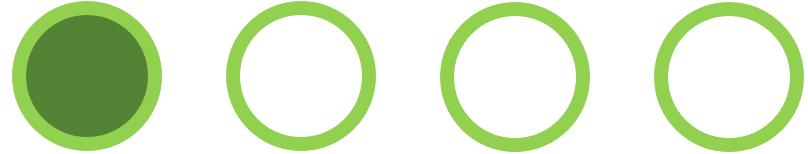
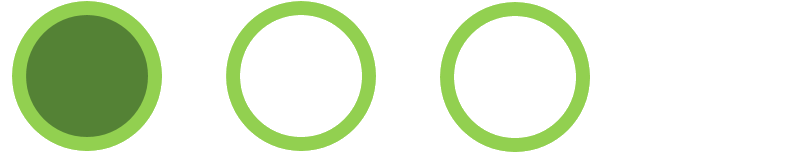
help page typos are modified

Changed region(s): [[0.8045, 0.0, 1.0, 0.987]]

diff --git a/UI/js/helpPage.js b/UI/js/helpPage.js
@@ -5,7 +5,7 @@ updateHelpPage();
 
 // Click handler for 'NEXT' button on the help page.
 $(".help .footer .nextStep").click(function(){
-    if (helpStepTracker < 3) {
+    if (helpStepTracker < 2) {
         ++helpStepTracker;
         updateHelpPage();
     }
@@ -51,9 +51,9 @@ function updateHelpPage() {
             // fill the page with related image and
             $(".help .header .text").text("Updating a Sign");
             $(".help .body img").attr("src", "UI/img/Help_2.png");
-            $(".help .body #description").html("<b style= 'font-size:15px'>To update a sign follow the bellow steps:</b>" +
+            $(".help .body #description").html("<b style= 'font-size:15px'>To update a sign follow the steps below :</b>" +
                 "<br /><br />" +
-                "<span style = 'color: #666666'>1. </span> Select one of the shops you possess, from the combo list.<br /><br/>" +
+                "<span style = 'color: #666666'>1. </span> Select your shop from the list.<br /><br/>" +
                 "<span style = 'color: #666666'>2. </span> Click on the forward and backward button to select the sign you want to update it<br /><br/>" +
                 "<span style = 'color: #666666'>3. </span> Select an image (png, jpg, etc.) from your local machine as a new sign<br /><br/>" +
                 "<span style = 'color: #666666'>4. </span> Click UPDATE button.<br /><br/>" +
@@ -67,8 +67,8 @@ function updateHelpPage() {
             // fill the page with related image and
             $(".help .header .text").text("Giving a Comment");
             $(".help .body img").attr("src", "UI/img/Help_3.png");
-            $(".help .body #description").html("<b style= 'font-size:15px'> To post a comment or give a feedback about the others' signs " +
-                "follow the bellow steps:</b>" +
+            $(".help .body #description").html("<b style= 'font-size:15px'> To post a comment or suggest changes about of any shops' signs " +
+                "follow the steps below:</b>" +
                 "<br /><br />" +
                 "<span style = 'color: #666666'>1. </span> Click on &quot;!&quot; icon<br /><br/>" +
                 "<span style = 'color: #666666'>2. </span> Write the building's number which you want to write a comment for it." +
@@ -77,13 +77,13 @@ function updateHelpPage() {
                 "<span style = 'color: #666666'>4. </span> Click on SUBMIT button.<br /><br/>" );
             break;
 
-        case 3:
-            $(".help .footer .stepsBar").attr("src", "UI/img/helpSteps_4.png");
-            // disable NEXT button
-            $(".help .footer .nextStep").css({"border": "2px solid #BBBBBB", "color": "#AAAAAA", "background-color": "#FFFFFF"});
-            $(".help .header .text").text("About Virtual Oulu");
-            $(".help .body img").attr("src", "UI/img/blank.png");
-            $(".help .body #description").html("");
-            break;
+        // case 3:
+        //     $(".help .footer .stepsBar").attr("src", "UI/img/helpSteps_4.png");
+        //     // disable NEXT button
+        //     $(".help .footer .nextStep").css({"border": "2px solid #BBBBBB", "color": "#AAAAAA", "background-color": "#FFFFFF"});
+        //     $(".help .header .text").text("About Virtual Oulu");
+        //     $(".help .body img").attr("src", "UI/img/blank.png");
+        //     $(".help .body #description").html("");
+        //     break;
     }
 }
